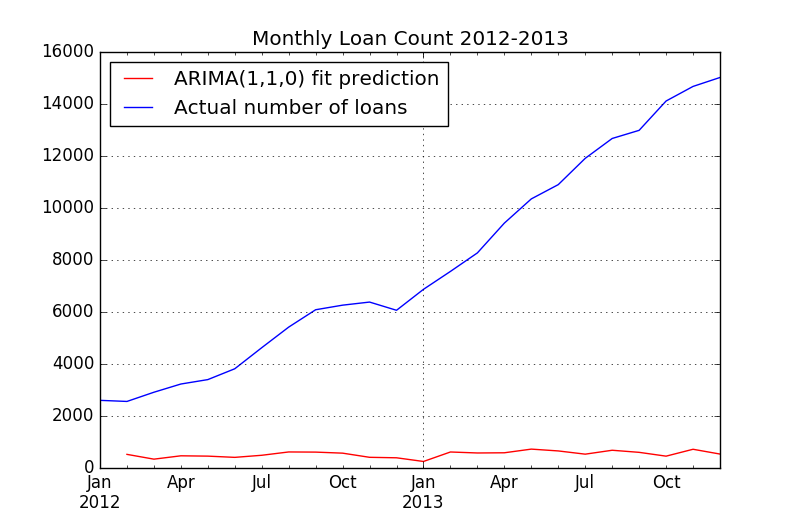
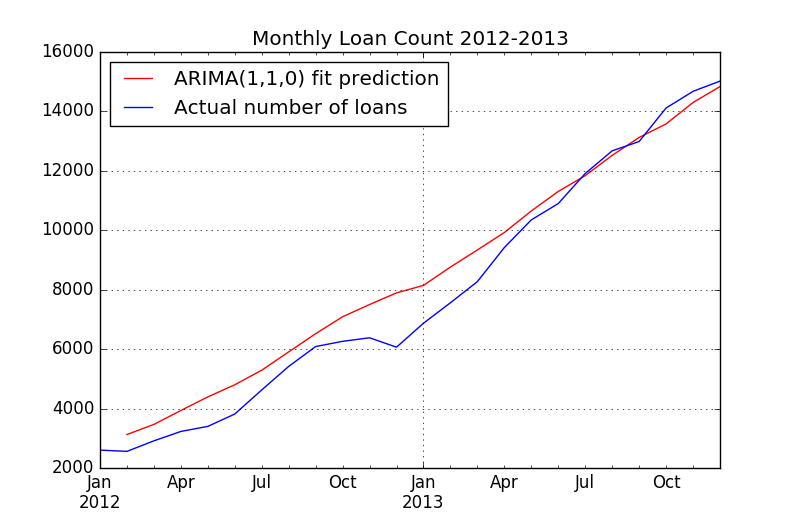
fix d=1 predicted values, add arima(2,1,0)

diff --git a/time_series.py b/time_series.py
@@ -110,7 +110,12 @@ def arima_analysis(p, d, q):
     arima_mod = sm.tsa.ARIMA(loan_count, (p, d, q)).fit()
 #   print alabel+' params:\n',  arima_mod.params
     print alabel+' summary:\n', arima_mod.summary()
+
     print alabel+' predict:\n', arima_mod.predict()
+    if d>0:  # fails if d>1, need multiple cumsum?
+        pred = arima_mod.predict().cumsum() + loan_count['2012-01-01']
+        print alabel+' predict fix:\n', pred
+
     print alabel+' resid:\n',   arima_mod.resid
 
     rr,rq,rp = sm.tsa.acf(arima_mod.resid, qstat=True)
@@ -139,8 +144,13 @@ def arima_analysis(p, d, q):
     sm.graphics.tsa.plot_pacf(arima_mod.resid)
     plt.text(5 ,0.7, 'Partial autocorrelation of ARIMA'+plabel+'\nfit residual, monthly loans 2012-2013')
     plt.savefig(plotpath + 'pacf.png')
+
     plt.clf()
-    arima_mod.predict().plot(figsize=newsize, style='r-') 
+    if d>0:    # fails if d>1, needs multiple cumsum?
+        pred = arima_mod.predict().cumsum() + loan_count['2012-01-01']
+        pred.plot(figsize=newsize, style='r-') 
+    else:
+        arima_mod.predict().plot(figsize=newsize, style='r-') 
     loan_count.plot(figsize=newsize)
     plt.title('Monthly Loan Count 2012-2013')
     plt.legend(['ARIMA'+plabel+' fit prediction','Actual number of loans'], loc='upper left')
@@ -157,10 +167,12 @@ print 'Starting ARIMA analyses'
 arima_analysis(1, 0, 0)
 arima_analysis(1, 1, 0)
 arima_analysis(2, 0, 0)
+arima_analysis(2, 1, 0)
 # help(arima_analysis)   # test help output
 print 'ARIMA analyses done.'
-print '\nCONCLUSION: It seems that the ARIMA(1, 0, 0) model best fits the data.'
-print 'Other models tried seem to overfit, leading to no significant improvement in p-values and poor predicted data.'
+print '\nCONCLUSION: It seems that the ARIMA(1, 1, 0) model best fits the data.'
+print 'Other models tried seem to overfit, leading to no significant improvement in p-values and autocorrelations.'
+print 'ARIMA(1, 0, 0) has better p-values but fits with all nan for stderr.  Since the data clearly has a linear trend and isn\'t stationary, d=0 is not a good match.'
 
 
 
